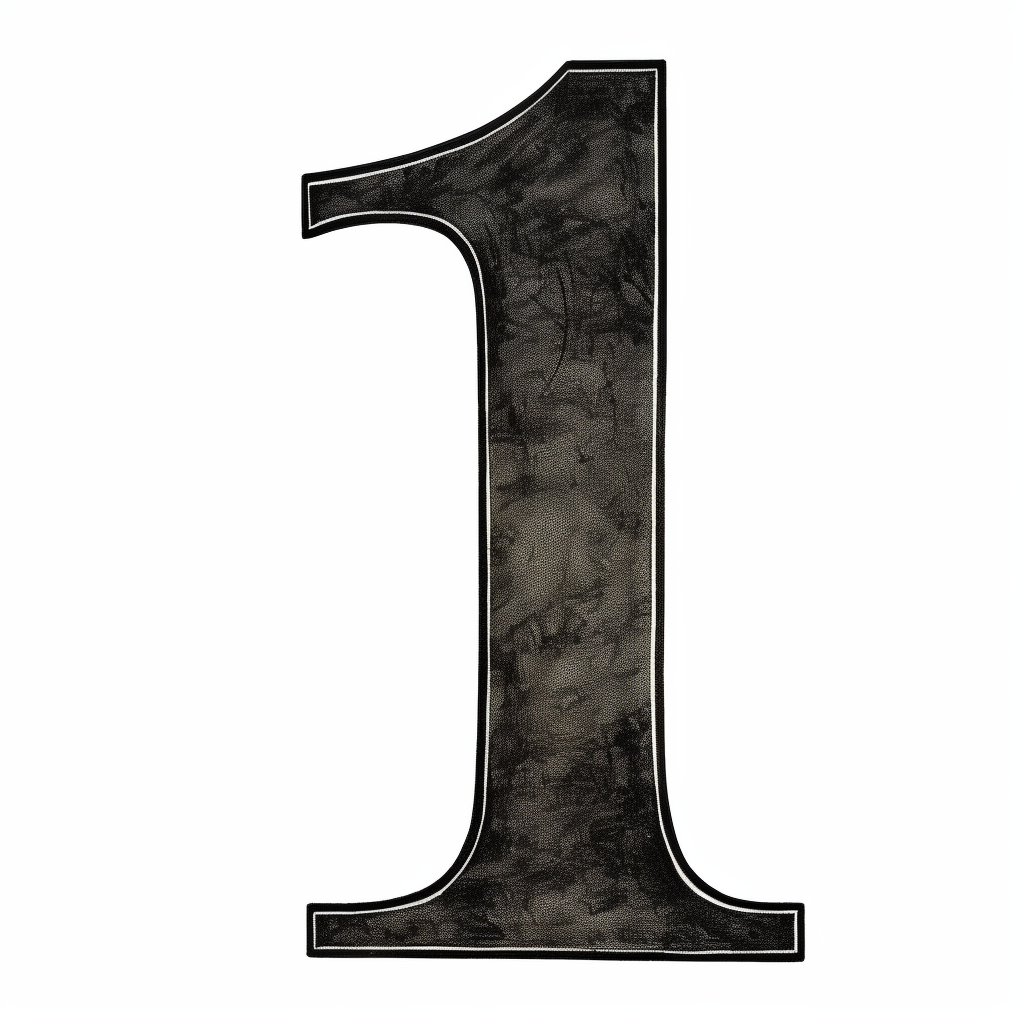
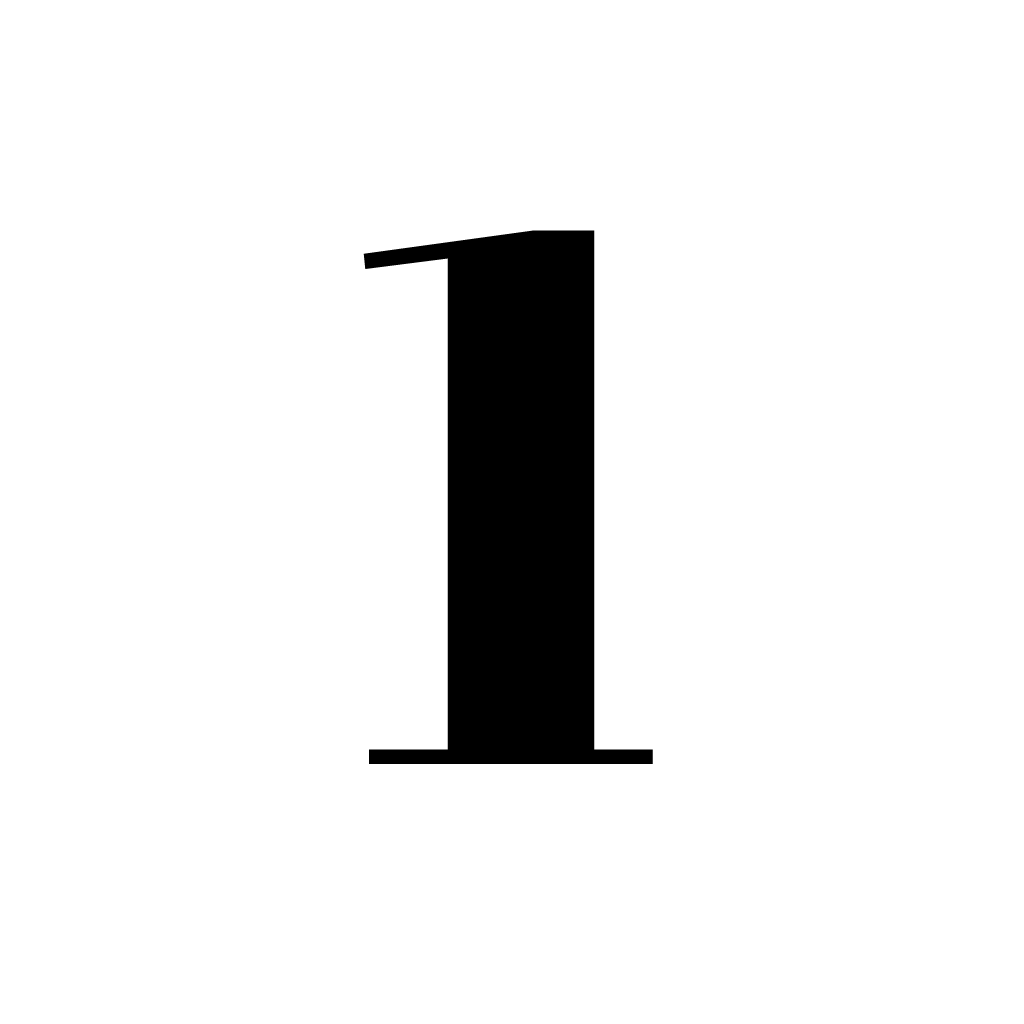
added numbers (0-9) cards

Changed region(s): [[0.2812, 0.0312, 0.8125, 0.9375]]

diff --git a/src/data/categories/numbersZeroToNine.ts b/src/data/categories/numbersZeroToNine.ts
@@ -1,6 +1,6 @@
 export const numbersZeroToNineData = [
   {
-    hy: "ՈՈՈ",
+    hy: "...",
     transliteration: "zero",
     en: "Zero",
     ru: "Ноль",
@@ -8,7 +8,7 @@ export const numbersZeroToNineData = [
     category: "02-numbers-1",
   },
   {
-    hy: "ՈՈՈ",
+    hy: "...",
     transliteration: "mek",
     en: "One",
     ru: "Один",
@@ -16,35 +16,67 @@ export const numbersZeroToNineData = [
     category: "02-numbers-1",
   },
   {
-    hy: "ՈՈՈ",
-    transliteration: "zero",
-    en: "Zero",
-    ru: "Ноль",
-    url: "0.png",
+    hy: "...",
+    transliteration: "enku",
+    en: "Two",
+    ru: "Два",
+    url: "2.png",
     category: "02-numbers-1",
   },
   {
-    hy: "ՈՈՈ",
-    transliteration: "mek",
-    en: "One",
-    ru: "Один",
-    url: "1.png",
+    hy: "...",
+    transliteration: "erek",
+    en: "Three",
+    ru: "Три",
+    url: "3.png",
     category: "02-numbers-1",
   },
   {
-    hy: "ՈՈՈ",
-    transliteration: "zero",
-    en: "Zero",
-    ru: "Ноль",
-    url: "0.png",
+    hy: "...",
+    transliteration: "chors",
+    en: "Four",
+    ru: "Четыре",
+    url: "4.png",
     category: "02-numbers-1",
   },
   {
-    hy: "ՈՈՈ",
-    transliteration: "mek",
-    en: "One",
-    ru: "Один",
-    url: "1.png",
+    hy: "...",
+    transliteration: "hink",
+    en: "Five",
+    ru: "Пять",
+    url: "5.png",
+    category: "02-numbers-1",
+  },
+  {
+    hy: "...",
+    transliteration: "...",
+    en: "Six",
+    ru: "Шесть",
+    url: "6.png",
+    category: "02-numbers-1",
+  },
+  {
+    hy: "...",
+    transliteration: "...",
+    en: "Seven",
+    ru: "Семь",
+    url: "7.png",
+    category: "02-numbers-1",
+  },
+  {
+    hy: "...",
+    transliteration: "...",
+    en: "Eight",
+    ru: "Восемь",
+    url: "8.png",
+    category: "02-numbers-1",
+  },
+  {
+    hy: "...",
+    transliteration: "...",
+    en: "Nine",
+    ru: "Девять",
+    url: "9.png",
     category: "02-numbers-1",
   },
 ];

diff --git a/src/QA-HW-Other.ts b/src/QA-HW-Other.ts
@@ -27,6 +27,7 @@ For public:
 - create the description doc;
 - add categories menu;
 - clean up the code - leave only the nessecary parts;
+- is it ok to have 01- 02- in the names of pictures?
 
 */
 
